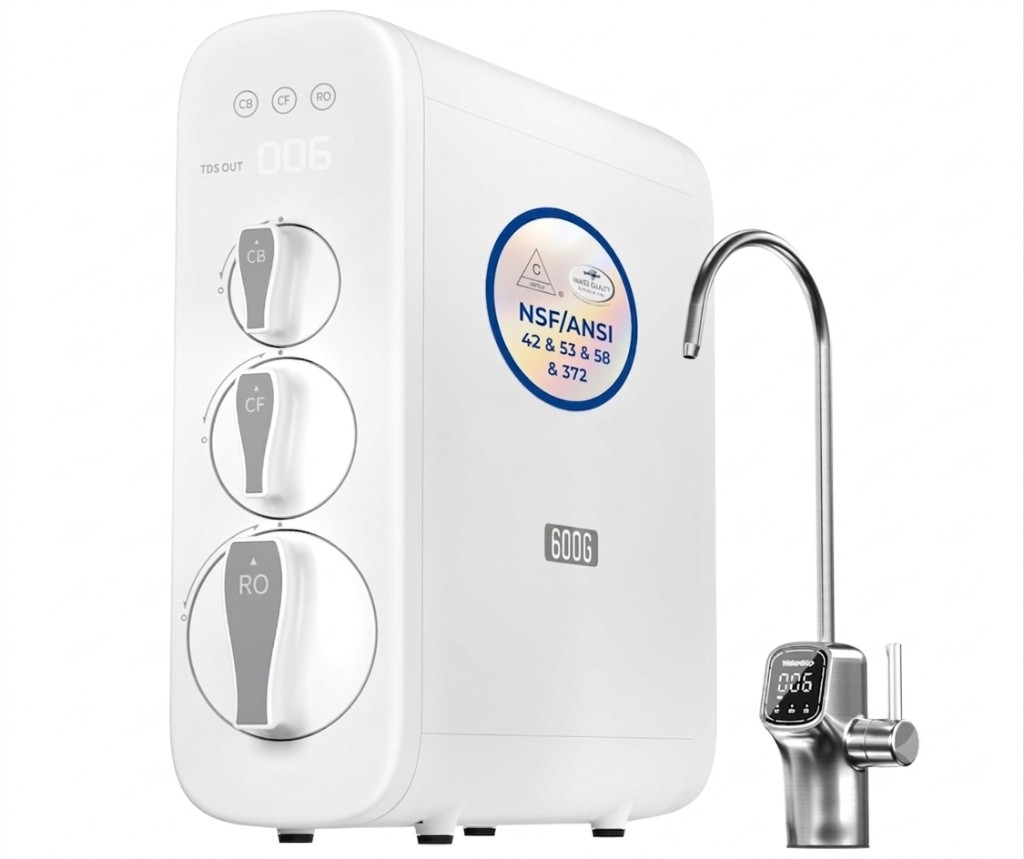
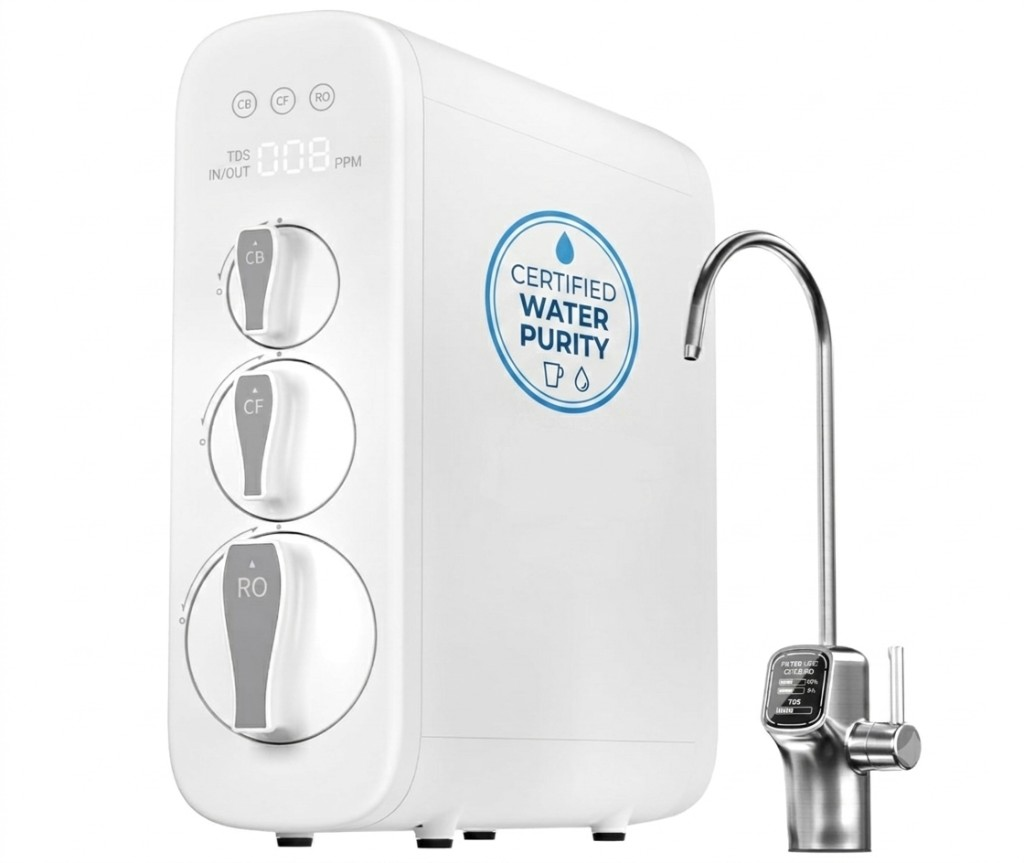
Replace RO product image and show full unit without cropping.
Use object-contain with the image's native aspect ratio on homepage and landing page.

diff --git a/components/ROFeature.tsx b/components/ROFeature.tsx
@@ -22,13 +22,13 @@ export function ROFeature() {
 
         <div className="grid items-start gap-10 lg:grid-cols-2">
           <div>
-            <div className="relative mb-8 aspect-[4/3] overflow-hidden rounded-xl">
+            <div className="relative mb-8 aspect-[1024/863] overflow-hidden rounded-xl bg-white">
               <Image
                 src={ro.image}
                 alt={ro.imageAlt}
                 fill
                 sizes="(max-width: 1024px) 100vw, 50vw"
-                className="object-cover"
+                className="object-contain"
               />
             </div>
 

diff --git a/components/ROLandingPage.tsx b/components/ROLandingPage.tsx
@@ -58,14 +58,14 @@ export function ROLandingPage() {
             </p>
           </div>
 
-          <div className="relative aspect-[4/3] overflow-hidden rounded-xl shadow-2xl">
+          <div className="relative aspect-[1024/863] overflow-hidden rounded-xl bg-white shadow-2xl">
             <Image
               src={hero.image}
               alt={hero.imageAlt}
               fill
               priority
               sizes="(max-width: 1024px) 100vw, 50vw"
-              className="object-cover"
+              className="object-contain"
             />
           </div>
         </div>